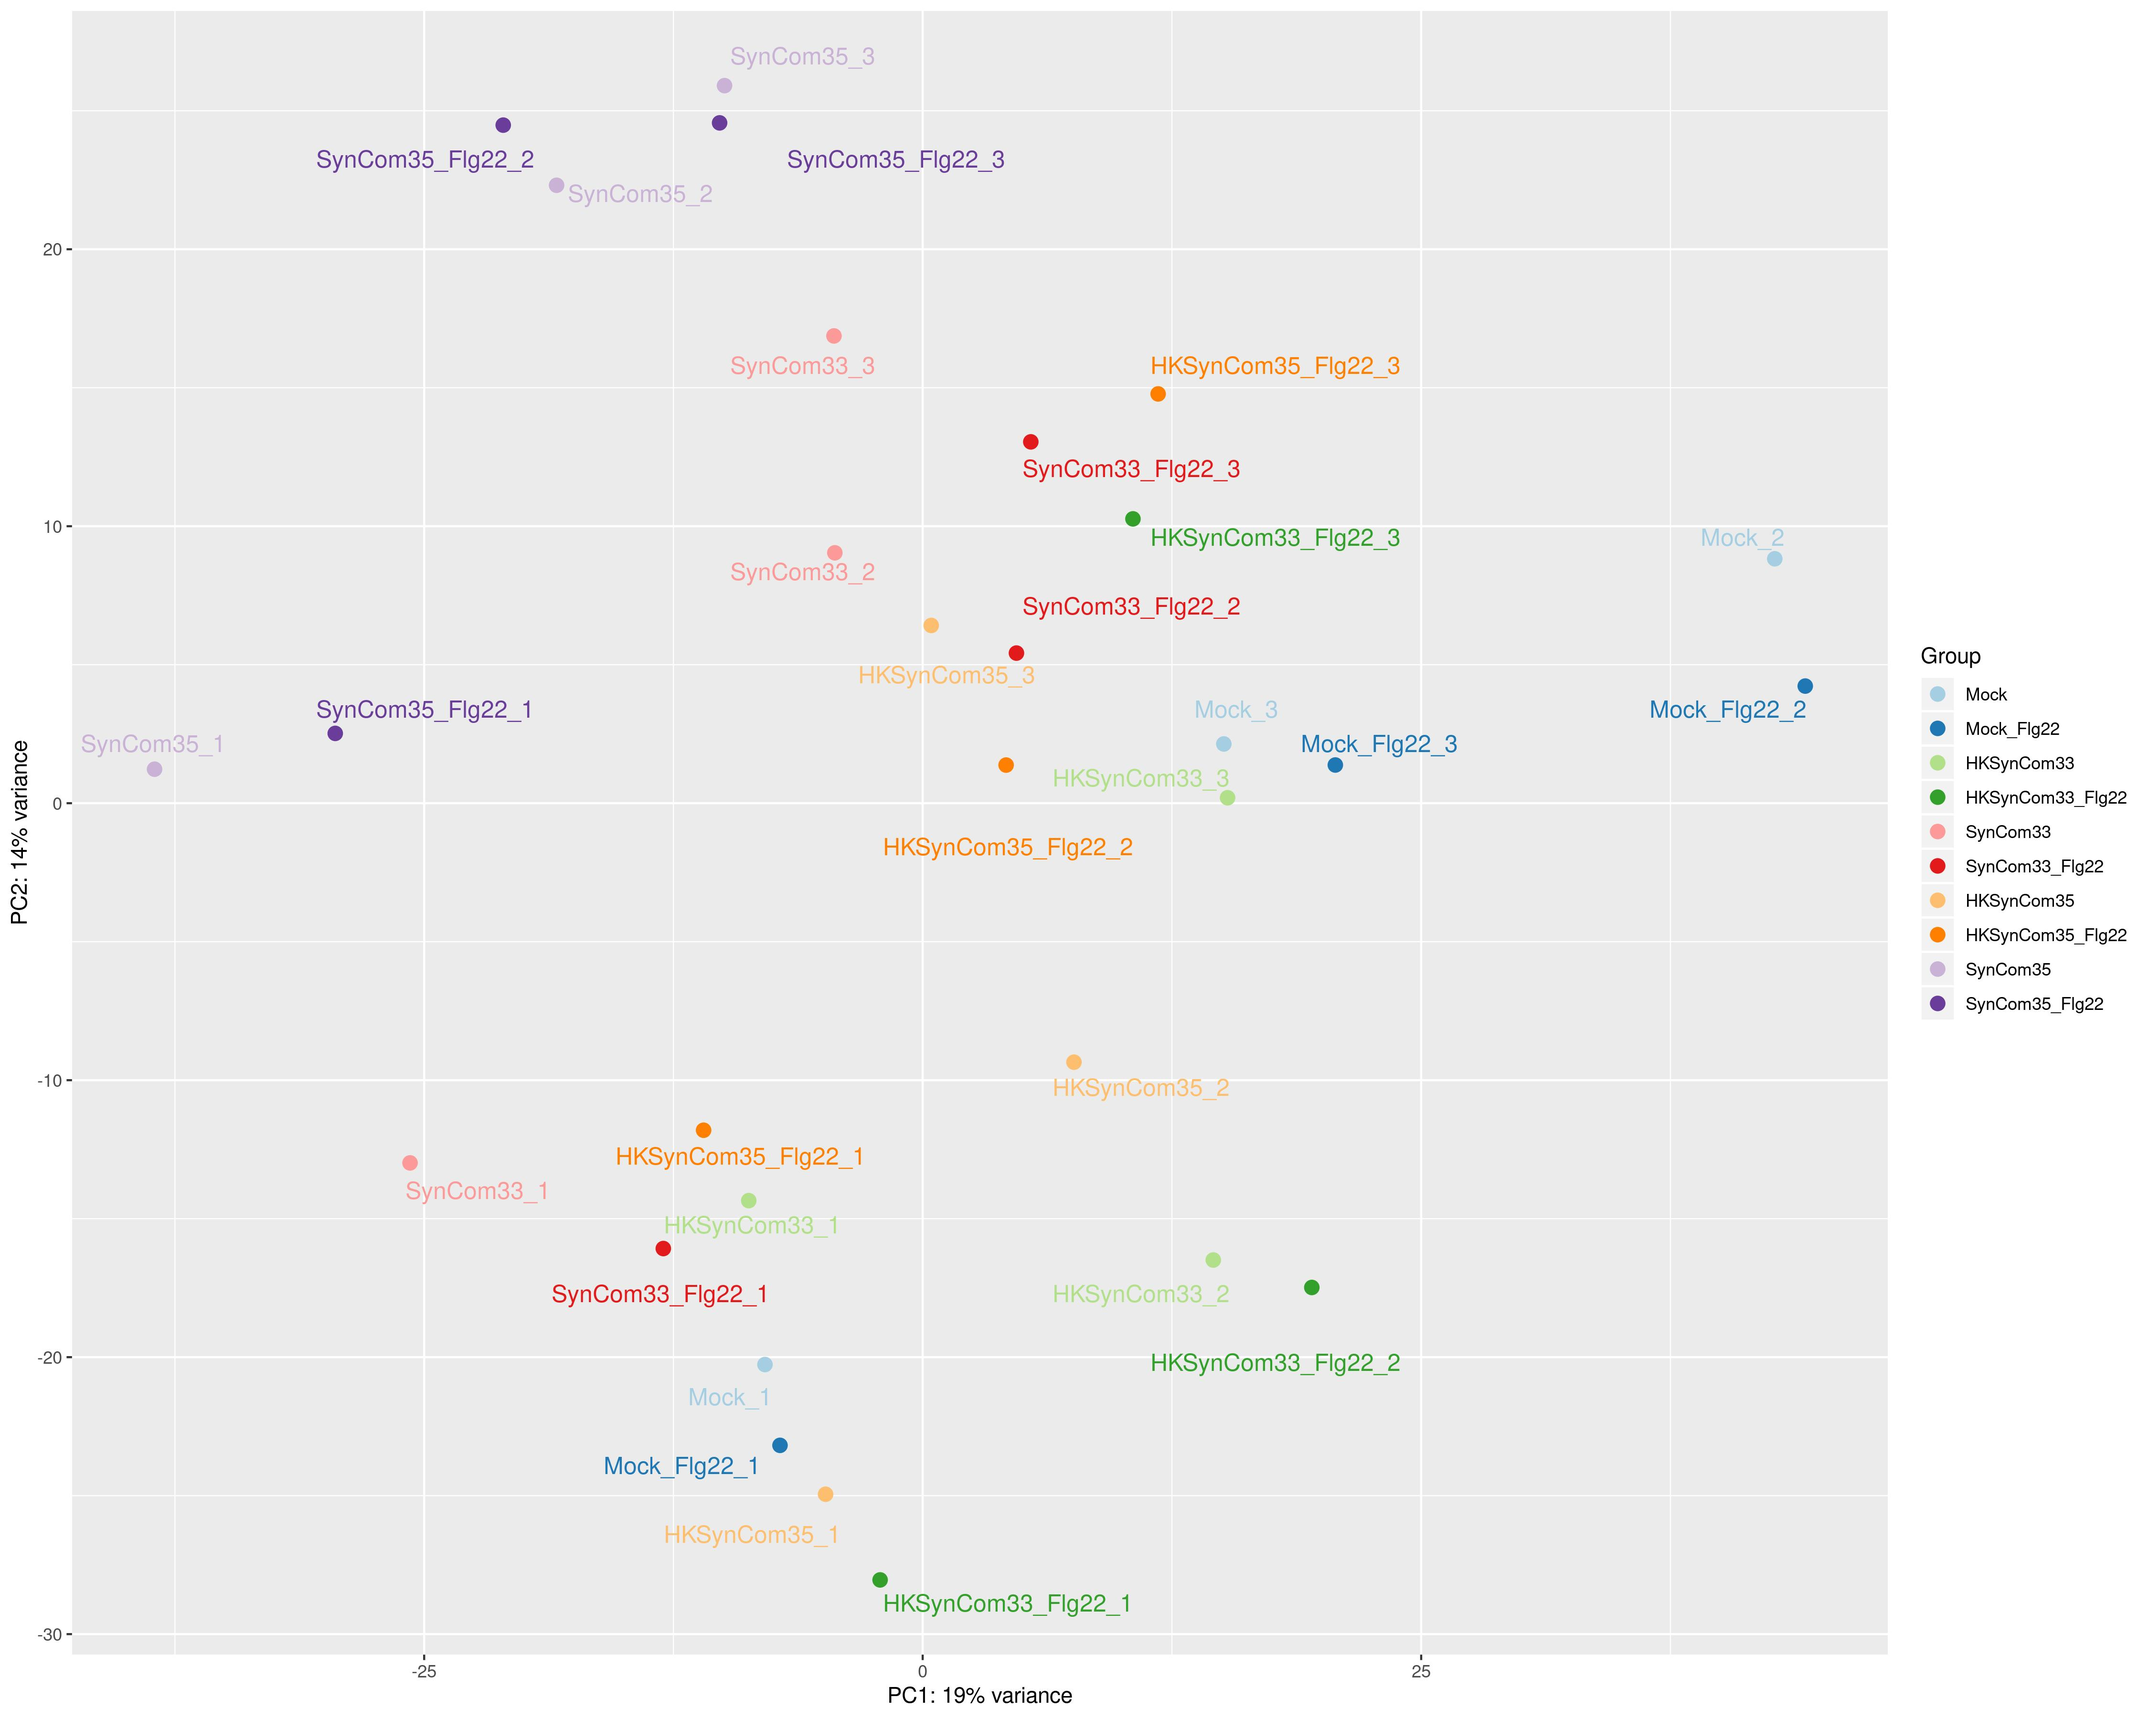
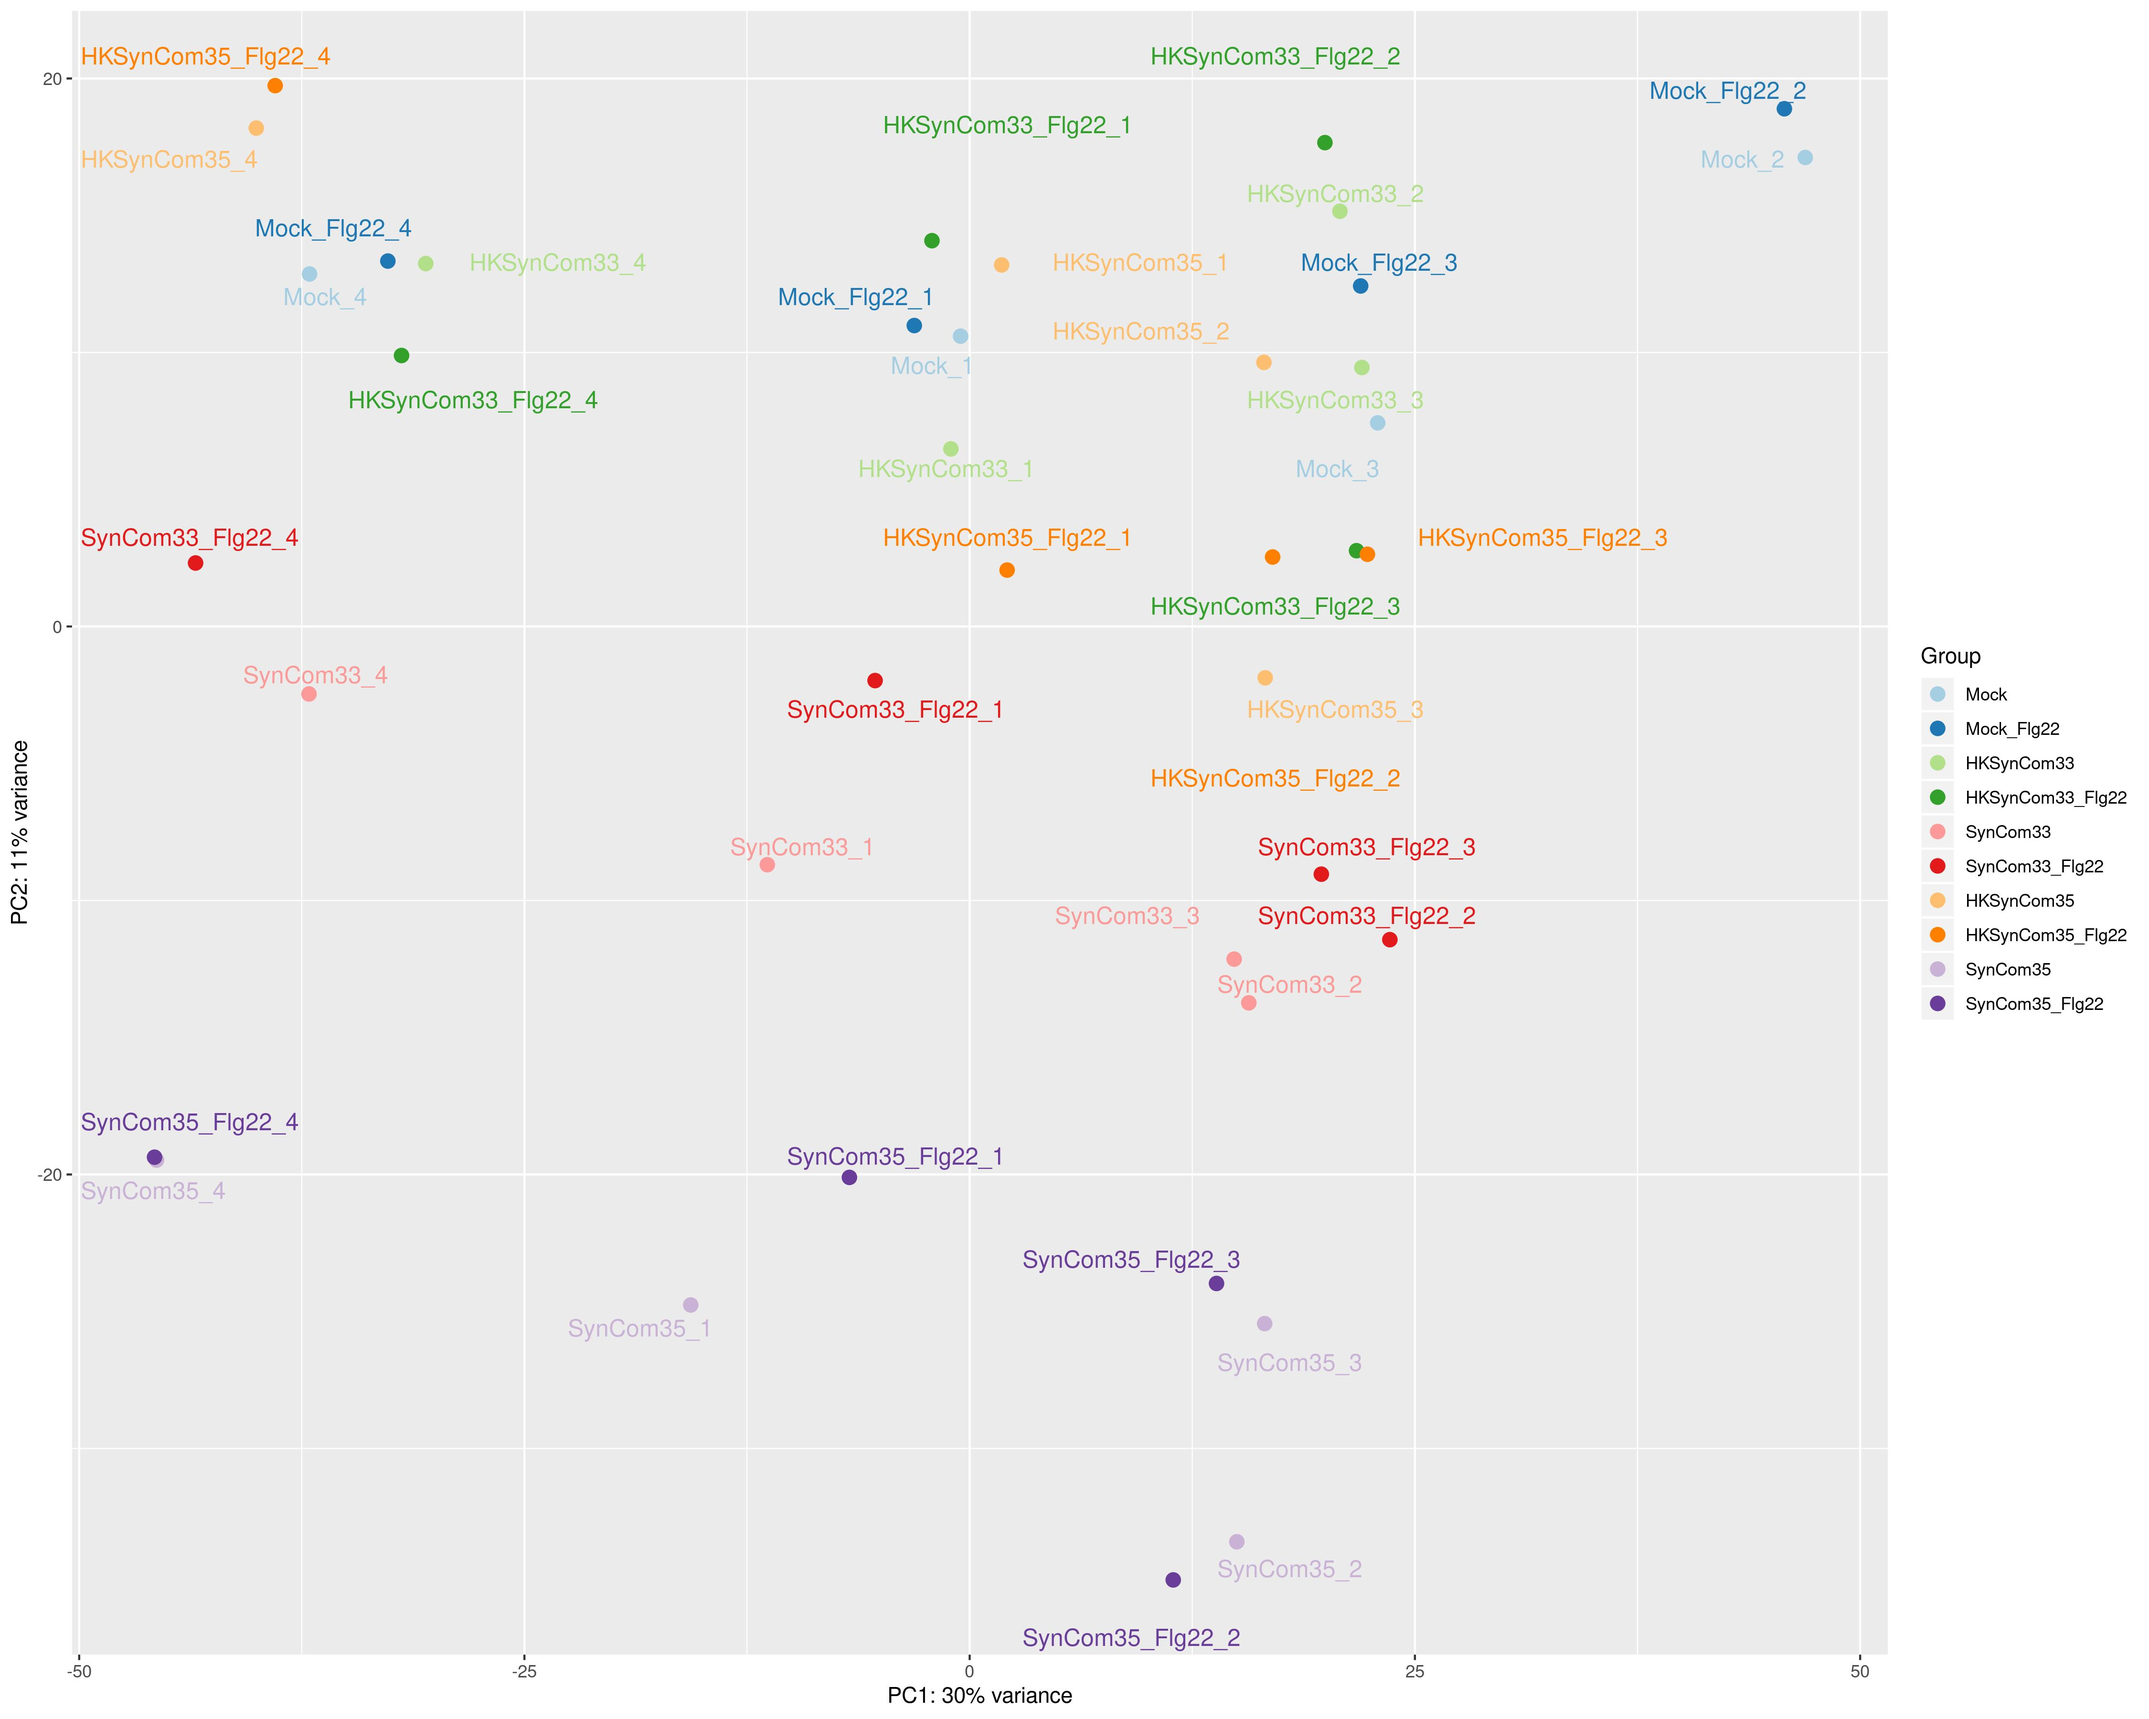
add SVA sample correction

diff --git a/KaWaiData.md b/KaWaiData.md
@@ -366,6 +366,8 @@ Find significantly changed gene ontology, KEGG, and BioCyc gene-sets in each k-m
 
 ![PCA_1stadd_C23](results/PCA_1stadd_C23.jpg)
 
+![PCA_1stadd_sva](results/PCA_1stadd_sva.jpg)
+
 ![PCA_1stadd_3d](results/PCA_1stadd_3d.gif)
 
 * threshold 2
